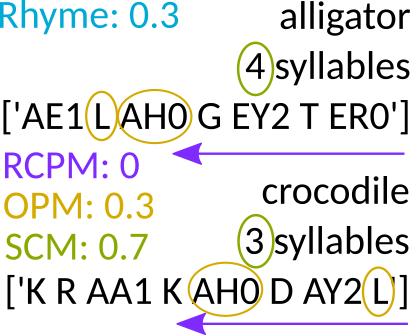
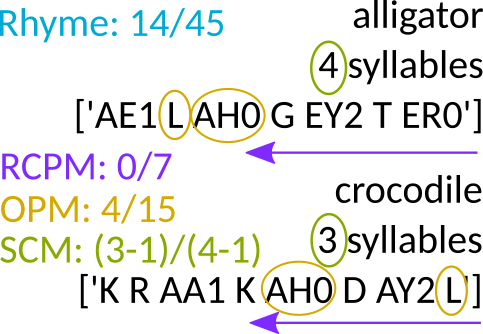
Add discussion and some last-minute tweaks

diff --git a/docs/report/final_report.tex b/docs/report/final_report.tex
@@ -56,7 +56,7 @@
 \setlength{\parskip}{0pt}
 }{\end{itemize}}
 
-\title{Prose2poetry -- generating rhyming couplets with Natural Language Processing}
+\title{Prose2poetry -- generating rhyming couplets from Gutenberg novels}
 
 \author{Sevag Hanssian \\
   McGill University \\
@@ -224,7 +224,7 @@ The rhyme score returns a real value representing the strength of the rhyme betw
 	\item \textit{Overall phoneme matching} (OPM):
 		OPM counts all common phonemes between a pair of words without considering order. It's essentialy an adapted \citet{ratcliff} string similarity score, using phonemes instead of characters.
 	\item \textit{Syllable count matching} (SCM):
-	SCM measures how close the syllable counts are between the two words.
+	SCM is a ratio of the syllable counts. There is a subtraction by one in the numerator and denominator to allow the SCM to be zero in the worst case.
 \end{tight_itemize}
 
 These are combined in an evenly weighted average $\in [0, 1]$. A rhyme score example is shown in figure \ref{fig:rhymescore}. There are some additions for special cases:
@@ -284,11 +284,11 @@ Gutenberg & 0.69 & 0.12 & 0.86 & 0.70 & 0.18 & 0.93 & 0.68 & 0.14 & 0.89 \\ [0.5
 \hline
 PoetryFoundation & 0.69 & 0.12 & 0.85 & 0.70 & 0.19 & 0.93 & 0.68 & 0.14 & 0.89 \\ [0.5ex]
 \hline
-\textit{prose2poetry} LSTM & 0.63 & 0.12 & 0.82 & 0.68 & 0.16 & 0.91 & 0.58 & 0.18 & 0.88 \\ [0.5ex]
+\textit{prose2poetry} LSTM & \textbf{0.63} & 0.12 & 0.82 & 0.68 & 0.16 & 0.91 & 0.58 & 0.18 & 0.88 \\ [0.5ex]
 \hline
-\textit{prose2poetry} Markov chain & 0.57 & 0.13 & 0.77 & 0.68 & 0.16 & 0.90 & 0.47 & 0.19 & 0.76 \\ [0.5ex]
+\textit{prose2poetry} Markov chain & \textbf{0.57} & 0.13 & 0.77 & 0.68 & 0.16 & 0.90 & 0.47 & 0.19 & 0.76 \\ [0.5ex]
 \hline
-Prose & 0.34 & 0.13 & 0.56 & 0.19 & 0.18 & 0.46 & 0.48 & 0.19 & 0.76 \\ [0.5ex]
+Prose & \textbf{0.34} & 0.13 & 0.56 & 0.19 & 0.18 & 0.46 & 0.48 & 0.19 & 0.76 \\ [0.5ex]
 \hline
 \end{tabular}
 
@@ -337,9 +337,11 @@ From each evaluated dataset, one couplet which scored better than the .95 quanti
 \section{Discussion and conclusion}
 \label{sec:discconc}
 
-\textcolor{green}{
-Results interpretation here. "Our poems scored well, stress score showed real poems have good meter, etc."
-}
+The results of the couplet score in table \ref{table:couplet_results} were as anticipated in the hypothesis. The baselines of human-written couplets from Gutenberg and PoetryFoundation achieved a mean couplet score of 0.69. Non-rhyming couplets extracted from the original prose corpus had a low mean of 0.34. The \textit{prose2poetry} generators scored in between, with a mean couplet score of 0.63 and 0.57 for the LSTM and Markov chain models respectively.
+
+The standard deviation of the couplet score is stable across all the evaluated datasets. However, if the rhyme and meter scores are examined individually, there are some additional observations. The baseline couplets have a higher standard deviation in their rhyme score. The rhyme score function from section \ref{sec:rhymescore} has opinionated rules, including rewarding longer rhymes. These rules are not necessarily followed by real poets.
+
+The inverse is true of the meter score. The baselines have a higher mean and a lower standard deviation than the generated couplets. This indicates that syllabic meter is an important device in human poetry. Moreover, there was no consideration of enforcing meter in the sentence generators. This could be a future improvement of \textit{prose2poetry}.
 
 \subsection{LSTM model discussion}
 \label{sec:discconclstm}
